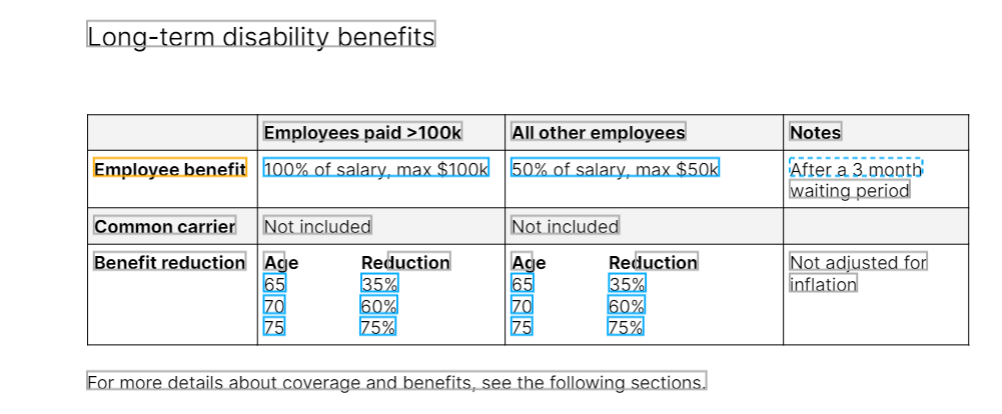
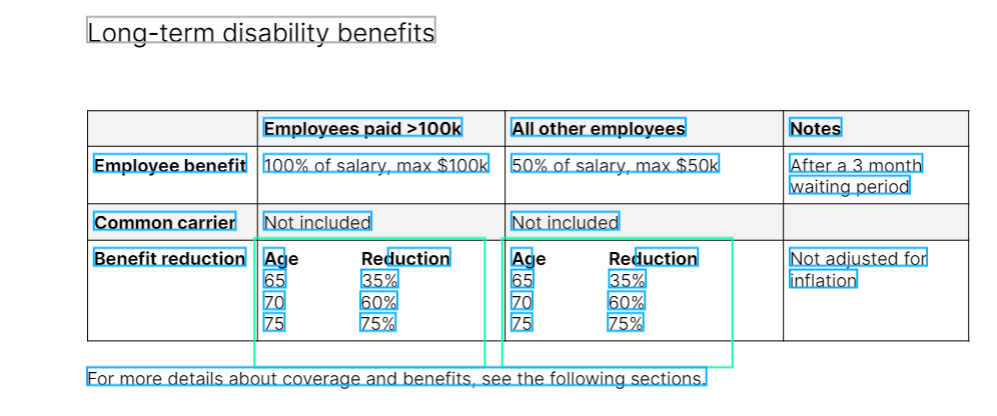
Relative Table example

Changed region(s): [[0.0622, 0.2609, 0.995, 0.9565], [0.0622, 0.029, 0.4353, 0.1159]]

diff --git a/readme-sync/v0/senseml-reference/6500 - sections/5000 - sections-example-nested-table.md b/readme-sync/v0/senseml-reference/6500 - sections/5000 - sections-example-nested-table.md
@@ -3,11 +3,11 @@ title: "Advanced: nested table example"
 hidden: false
 ---
 
-The following example shows:
+The following example:
 
-- using the Column Selection parameter in a vertical sections group to handle row labels in a table.
-- Since table recognition works on the whole page, the example uses a nested section group to extract a nested table.  In the nested section group, each row of the nested table is its own section. For more information, see [Multiple anchors in section](doc:section-nuances#multiple-anchors-in-section). 
-- To illustrate each section's range, the config includes a field that outputs the entire contents of each section.
+- Uses the Column Selection parameter in a vertical sections group to treat row labels as anchors in a table.
+- Uses relative column coordinates to find nested tables in each column table. (`"columnsRelativeToAnchor":"true"`).
+- Illustrates each section's range with a field that outputs the entire contents of each section.
 
 **Config**
 
@@ -24,10 +24,13 @@ The following example shows:
   "fields": [],
   "sections": [
     {
-      "id": "table_columns_w_row_labels",
+      "id": "table_columns",
       "range": {
         "direction": "vertical",
-        "columnSelection": [1,2],
+        "columnSelection": [
+          1,
+          2
+        ],
         "offsetY": -0.5,
         "anchor": "Employee benefit",
         "stop": {
@@ -36,6 +39,17 @@ The following example shows:
         }
       },
       "fields": [
+        {
+          "id": "employee_category",
+          "anchor": {
+            "match": {
+              "type": "first"
+            }
+          },
+          "method": {
+            "id": "passthrough"
+          }
+        },
         {
           "id": "employee_benefit",
           "anchor": "Employee benefit",
@@ -46,7 +60,41 @@ The following example shows:
           }
         },
         {
-          "id": "everything_in_this_section",
+          "id": "reduction_subtable",
+          "type": "table",
+          "method": {
+            "id": "textTable",
+            "columnsRelativeToAnchor": true,
+            "offsetY": -0.3,
+            "columns": [
+              {
+                "id": "col1_age",
+                "minX": -0.1,
+                "maxX": 0.5,
+                "type":"number"
+              },
+              {
+                "id": "col2_reduction",
+                "minX": 0.5,
+                "maxX": 2.4,
+                "type": "percentage",
+                "isRequired": true
+              }
+            ],
+            "stop": {
+              "type": "startsWith",
+              "text": "for more details about coverage"
+            }
+          },
+          "anchor": {
+            "match": {
+              "type": "startsWith",
+              "text": "age"
+            }
+          }
+        },
+        {
+          "id": "everything_in_this_vertical_section",
           "method": {
             "id": "documentRange",
             "includeAnchor": true
@@ -56,64 +104,6 @@ The following example shows:
               "type": "first"
             }
           }
-        }
-      ],
-      "sections": [
-        {
-          "id": "benefit_reduction",
-          "range": {
-            "offsetY": 0.1,
-            "anchor": {
-              "start": "Benefit reduction",
-              "match": {
-                "type": "regex",
-                "pattern": ".+"
-              }
-            }
-          },
-          "fields": [
-            {
-              "id": "age",
-              "type": "number",
-              "anchor": {
-                "match": {
-                  "type": "first"
-                }
-              },
-              "method": {
-                "id": "passthrough"
-              }
-            },
-            {
-              "id": "reduction",
-              "type": "percentage",
-              "anchor": {
-                "match": [
-                  {
-                    "type": "first"
-                  },
-                  {
-                    "type": "first"
-                  }
-                ]
-              },
-              "method": {
-                "id": "passthrough"
-              }
-            },
-            {
-              "id": "everything_in_this_subsection",
-              "method": {
-                "id": "documentRange",
-                "includeAnchor": true
-              },
-              "anchor": {
-                "match": {
-                  "type": "first"
-                }
-              }
-            }
-          ]
         }
       ]
     }
@@ -135,126 +125,122 @@ The following image shows the example PDF used with this example config:
 
 ```json
 {
-  "table_columns_w_row_labels": [
+  "table_columns": [
     {
+      "employee_category": {
+        "type": "string",
+        "value": "Employees paid \u0000100k"
+      },
       "employee_benefit": {
         "value": "100% of salary, max $100k",
         "type": "string"
       },
-      "everything_in_this_section": {
-        "type": "string",
-        "value": "Employees paid \u0000100k  Notes Employee benefit 100% of salary, max $100k  After a 3 month waiting period Common carrier Not included  Benefit reduction Age Reduction   Not adjusted for 65 35%   inflation 70 60%   75 75%  "
+      "reduction_subtable": {
+        "columns": [
+          {
+            "id": "col1_age",
+            "values": [
+              {
+                "source": "65",
+                "value": 65,
+                "type": "number"
+              },
+              {
+                "source": "70",
+                "value": 70,
+                "type": "number"
+              },
+              {
+                "source": "75",
+                "value": 75,
+                "type": "number"
+              }
+            ]
+          },
+          {
+            "id": "col2_reduction",
+            "values": [
+              {
+                "source": "35%",
+                "value": 35,
+                "type": "percentage"
+              },
+              {
+                "source": "60%",
+                "value": 60,
+                "type": "percentage"
+              },
+              {
+                "source": "75%",
+                "value": 75,
+                "type": "percentage"
+              }
+            ]
+          }
+        ]
       },
-      "benefit_reduction": [
-        {
-          "age": {
-            "source": "65",
-            "value": 65,
-            "type": "number"
-          },
-          "reduction": {
-            "source": "35%",
-            "value": 35,
-            "type": "percentage"
-          },
-          "everything_in_this_subsection": {
-            "type": "string",
-            "value": "65 35%   inflation    "
-          }
-        },
-        {
-          "age": {
-            "source": "70",
-            "value": 70,
-            "type": "number"
-          },
-          "reduction": {
-            "source": "60%",
-            "value": 60,
-            "type": "percentage"
-          },
-          "everything_in_this_subsection": {
-            "type": "string",
-            "value": "70 60%    "
-          }
-        },
-        {
-          "age": {
-            "source": "75",
-            "value": 75,
-            "type": "number"
-          },
-          "reduction": {
-            "source": "75%",
-            "value": 75,
-            "type": "percentage"
-          },
-          "everything_in_this_subsection": {
-            "type": "string",
-            "value": "75 75%  "
-          }
-        }
-      ]
+      "everything_in_this_vertical_section": {
+        "type": "string",
+        "value": "Employees paid \u0000100k  Notes Employee benefit 100% of salary, max $100k  After a 3 month waiting period Common carrier Not included  Benefit reduction Age Reduction   Not adjusted for 65 35%   inflation 70 60%   75 75%   For more details about coverage and benefits, see the following sections."
+      }
     },
     {
+      "employee_category": {
+        "type": "string",
+        "value": "All other employees"
+      },
       "employee_benefit": {
         "value": "50% of salary, max $50k",
         "type": "string"
       },
-      "everything_in_this_section": {
-        "type": "string",
-        "value": "All other employees Notes Employee benefit  50% of salary, max $50k After a 3 month waiting period Common carrier  Not included Benefit reduction   Age Reduction Not adjusted for   65 35% inflation   70 60%   75 75%"
+      "reduction_subtable": {
+        "columns": [
+          {
+            "id": "col1_age",
+            "values": [
+              {
+                "source": "65",
+                "value": 65,
+                "type": "number"
+              },
+              {
+                "source": "70",
+                "value": 70,
+                "type": "number"
+              },
+              {
+                "source": "75",
+                "value": 75,
+                "type": "number"
+              }
+            ]
+          },
+          {
+            "id": "col2_reduction",
+            "values": [
+              {
+                "source": "35%",
+                "value": 35,
+                "type": "percentage"
+              },
+              {
+                "source": "60%",
+                "value": 60,
+                "type": "percentage"
+              },
+              {
+                "source": "75%",
+                "value": 75,
+                "type": "percentage"
+              }
+            ]
+          }
+        ]
       },
-      "benefit_reduction": [
-        {
-          "age": {
-            "source": "65",
-            "value": 65,
-            "type": "number"
-          },
-          "reduction": {
-            "source": "35%",
-            "value": 35,
-            "type": "percentage"
-          },
-          "everything_in_this_subsection": {
-            "type": "string",
-            "value": "65 35% inflation    "
-          }
-        },
-        {
-          "age": {
-            "source": "70",
-            "value": 70,
-            "type": "number"
-          },
-          "reduction": {
-            "source": "60%",
-            "value": 60,
-            "type": "percentage"
-          },
-          "everything_in_this_subsection": {
-            "type": "string",
-            "value": "70 60%  "
-          }
-        },
-        {
-          "age": {
-            "source": "75",
-            "value": 75,
-            "type": "number"
-          },
-          "reduction": {
-            "source": "75%",
-            "value": 75,
-            "type": "percentage"
-          },
-          "everything_in_this_subsection": {
-            "type": "string",
-            "value": "75 75%"
-          }
-        }
-      ]
+      "everything_in_this_vertical_section": {
+        "type": "string",
+        "value": "All other employees Notes Employee benefit  50% of salary, max $50k After a 3 month waiting period Common carrier  Not included Benefit reduction   Age Reduction Not adjusted for   65 35% inflation   70 60%   75 75% For more details about coverage and benefits, see the following sections."
+      }
     }
   ]
 }

diff --git a/readme-sync/v0/senseml-reference/2000 - methods/2200 - text-table.md b/readme-sync/v0/senseml-reference/2000 - methods/2200 - text-table.md
@@ -27,7 +27,7 @@ Parameters
 | stop                      | Match object, array of Match objects, or number (inches) | (**Recommended**) Line to match or number in inches to stop table recognition.  Specify this parameter to prevent false positive results and to enable recognizing a table that spans pages.<br/>  A Match object or array specifies to stop table recognition when Sensible matches text.<br/> A number specifies the end of the table as the number of the inches offset along a Y-axis from the start of the table. |
 | startOnRow                | integer. default: 0                                      | Zero-indexed row number at which to start table extraction. For example, use this to exclude column headings from the output. As a stricter alternative, set the Is Required parameter on a column and set a type on the column (see example in Examples section). |
 | detectMultipleLinesPerRow | boolean. default: false                                  | If true, Sensible detects table cells containing multiple lines, rather than the default of treating each line as a new row.<br/>Set this to false if row gutters are narrow. For example, if vertical gaps between lines in the cells are the same height as row gutters, Sensible can incorrectly merge multiple rows into one. In detail, Sensible detects a cell with multiple lines if the vertical gap between two lines is less than half the height of the second line. Sensible adjusts the row height to accommodate the tallest cell. |
-| columnsRelativeToAnchor   | boolean. Default: false                                  | If true, specifies that the column coordinates `minX` and `maxX` are relative to the left edge of the anchor line, rather than to the left edge of the page. For example, use this parameter to recognize nested tables inside tables. |
+| columnsRelativeToAnchor   | boolean. Default: false                                  | If true, specifies that the column coordinates `minX` and `maxX` are relative to the left edge of the anchor line, rather than to the left edge of the page. For example, use this parameter to recognize [nested tables inside tables](doc:sections-example-nested-table). |
 
 Examples
 ====
